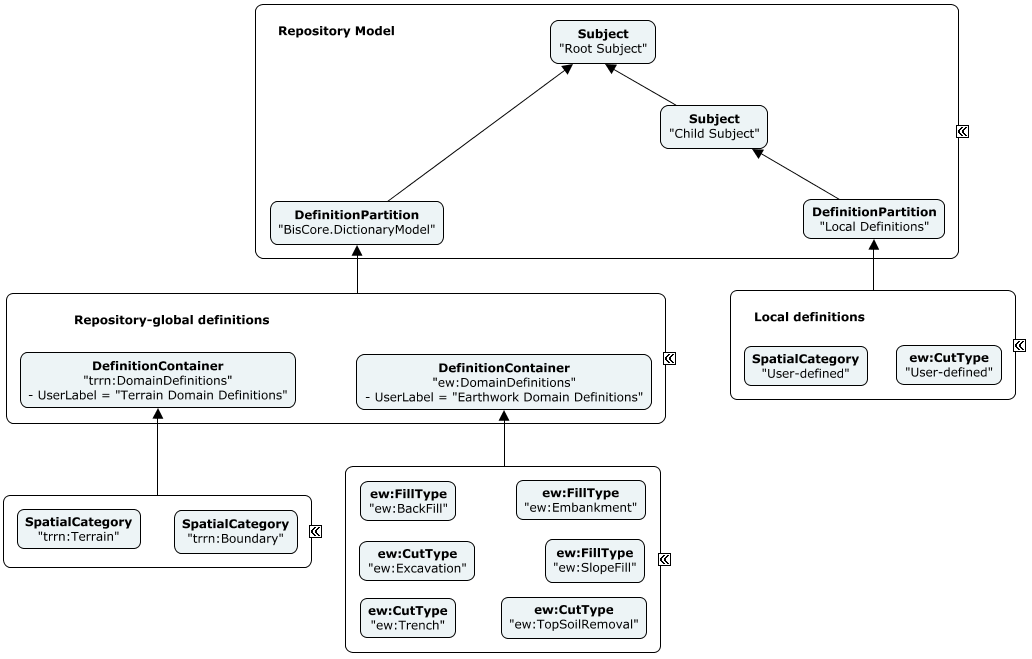
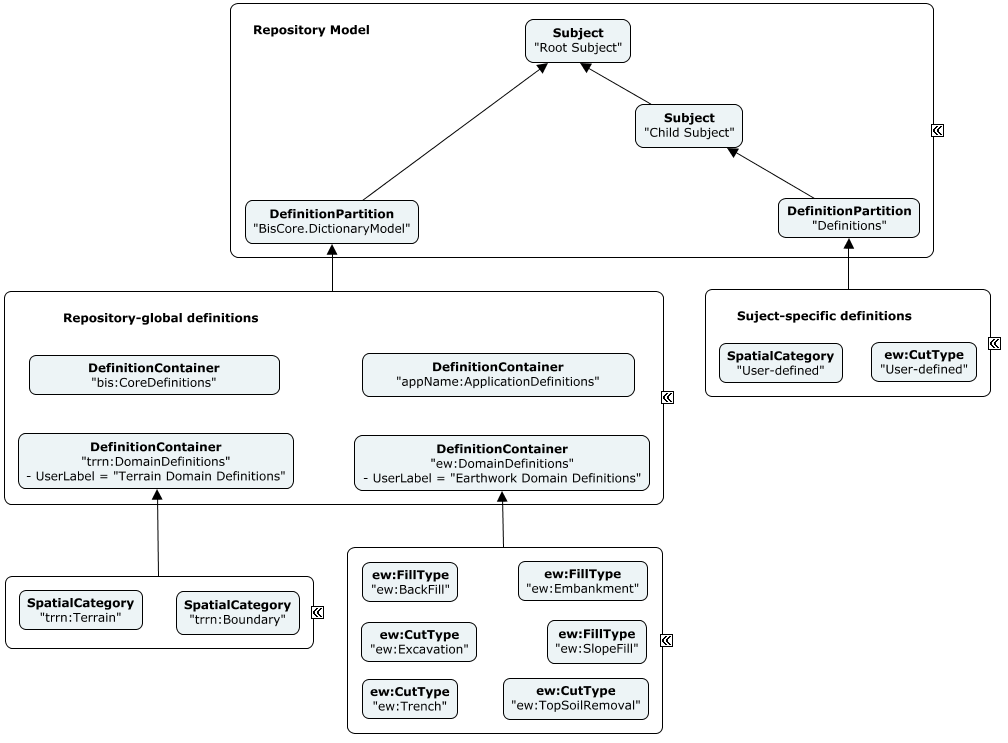
Clean up of the concept of Rank. Updates to the associated subject-hierarchy diagram.

diff --git a/docs/bis/guide/data-organization/organizing-definition-elements.md b/docs/bis/guide/data-organization/organizing-definition-elements.md
@@ -13,12 +13,12 @@ Examples of `DefinitionElement`s include instances of:
 
 ## Definition Rank
 
-Every definition has a `Rank` property that indicates its basis of standardization. The values of Rank are:
+Some `DefinitionElement` instances are introduced in an iModel for standardization. This is done at various ranks of the BIS ecosystem. The ranks to keep in mind in this discussion are:
 
-* 0 = System (for standardized definitions that are semantically at the "core" layer of BIS. In the case "the system" is essentially BIS. There are actually no examples of these, to-date.)
-* 1 = Domain (for domain-specific standards)
-* 2 = Application (for application-specific definitions. Note that applications and connectors should endeavor to define and use standardized domains, so this does not mean "any definition written by a connector")
-* 3 = User (for most definitions, which are user-specific or project-specific)
+* Core: standardized definitions that are semantically at the "Core" and "Common" layers of the [BIS schema hierarchy](../intro/bis-organization.md). There are actually no examples of these to-date.
+* Discipline: standardized definitions at the "Discipline-Physical" or "Discipline-Other" layers of the [BIS schema hierarchy](../intro/bis-organization.md).
+* Application: application-specific definitions. Note that applications and connectors should endeavor to define and use standardized domains, so this does not mean "any definition written by a connector".
+* User: most definitions, which are user-specific or project-specific.
 
 ## Definition scope
 
@@ -28,23 +28,21 @@ Each `Subject` can have 0 or 1 child `DefinitionPartition` element which is sub-
 
 ### DictionaryModel (for global-scoped definitions)
 
-The `DefinitionPartion` of the Root `Subject` always has a `CodeValue` of "BisCore.DictionaryModel". Its sub-model is called the "DictionaryModel". The [DictionaryModel](../glossary.md#DictionaryModel) is a singleton container of `DefinitionElement` instances. It *directly* holds User-rank definitions and holds System, Domain, and Application-standardized definitions organized under `DefinitionContainer`s.
+The `DefinitionPartion` of the Root `Subject` always has a `CodeValue` of "BisCore.DictionaryModel". Its sub-model is called the "DictionaryModel". The [DictionaryModel](../glossary.md#DictionaryModel) is a singleton container of `DefinitionElement` instances. It *directly* holds User-rank definitions and holds Core, Discipline, and Application-standardized definitions organized under `DefinitionContainer`s.
 
-* For Domain-rank definitions, there should be a `DefinitionContainer` with a `CodeValue` of "{domain alias}:DomainDefinitions" (where {domain alias} is the schema alias for the domain that is doing the standardization, *not* the schema that defines the particular `DefinitionElement` subclass) and a `CodeScope` that is the id of the `DefinitionModel` that contains it. Domain-standardized definitions should go in the sub-model of that `DefinitionContainer.
-* For Application-rank definitions, there should be a `DefinitionContainer` with a `CodeValue` of "{application name}:ApplicationsDefinitions" and a `CodeScope` that is the id of the `DefinitionModel` that contains it. Application-standardized definitions should go in the sub-model of that `DefinitionContainer.
-* For System-rank definitions, there should be a `DefinitionContainer` with a `CodeValue` of "SystemDefinitions" and a `CodeScope` that is the id of the `DefinitionModel` that contains it. BIS-standardized definitions should go in the sub-model of that `DefinitionContainer.
+* For Discipline-rank definitions, there should be a `DefinitionContainer` with a `CodeValue` of _"{domain alias}:DomainDefinitions"_ (where {domain alias} is the schema alias for the domain that is doing the standardization - which *might be different* than the schema that defines the particular `DefinitionElement` subclass) - and a `CodeScope` that is the ElementId of the `DefinitionModel` that contains it. Domain-standardized definitions should go in the sub-model of that `DefinitionContainer`.
+* For standardized Application-rank definitions, there should be a `DefinitionContainer` with a `CodeValue` of _"{application name}:ApplicationDefinitions"_ and a `CodeScope` that is the Id of the `DefinitionModel` that contains it. Application-standardized definitions should go in the sub-model of that `DefinitionContainer.
+* For Core-rank definitions, there should be a `DefinitionContainer` with a `CodeValue` of _"bis:CoreDefinitions"_ and a `CodeScope` that is the Id of the `DefinitionModel` that contains it. BIS-standardized definitions should go in the sub-model of that `DefinitionContainer`.
 
-All System-rank, Domain-rank, and Application-rank definitions should be organized under the DictionaryModel.
+All global-scoped Core-rank, Discipline-rank and  Application-rank definitions should be organized under the DictionaryModel.
 
 As an example of domain-ranked definitions, the "Terrain" domain (with prefix "trrn") defines a set of standard `Category` elements and the "Earthworks" domain (with prefix "ew") defines some standard `PhysicalType` elements to be used with Connectors and Applications that support that domain. See diagram below.
 
 ### Subject-specific definitions
 
-Only User-rank definitions should be placed in Subject-specific `DictionaryModel`s, which are typically created by iModel Connectors. The `DefinitionPartion` for Subject-specific definitions should have `CodeValue` of "Definitions" and `CodeScope` of its parent `Subject`.
+Only User-rank definitions should be placed in Subject-specific `DictionaryModel`s, which are typically created by iModel Connectors. In that case, the `DefinitionPartion` for Subject-specific definitions should have a `CodeValue` of "Definitions" and `CodeScope` of its parent `Subject`.
 
 ### Example organization of definitions
-
-System-rank and Application-rank definitions are not shown, but would go under DefinitionContainers in the DictionaryModel.
 
 &nbsp;
 ![Repository-Global DefinitionElements](../media/repository-global-definitions.png)
